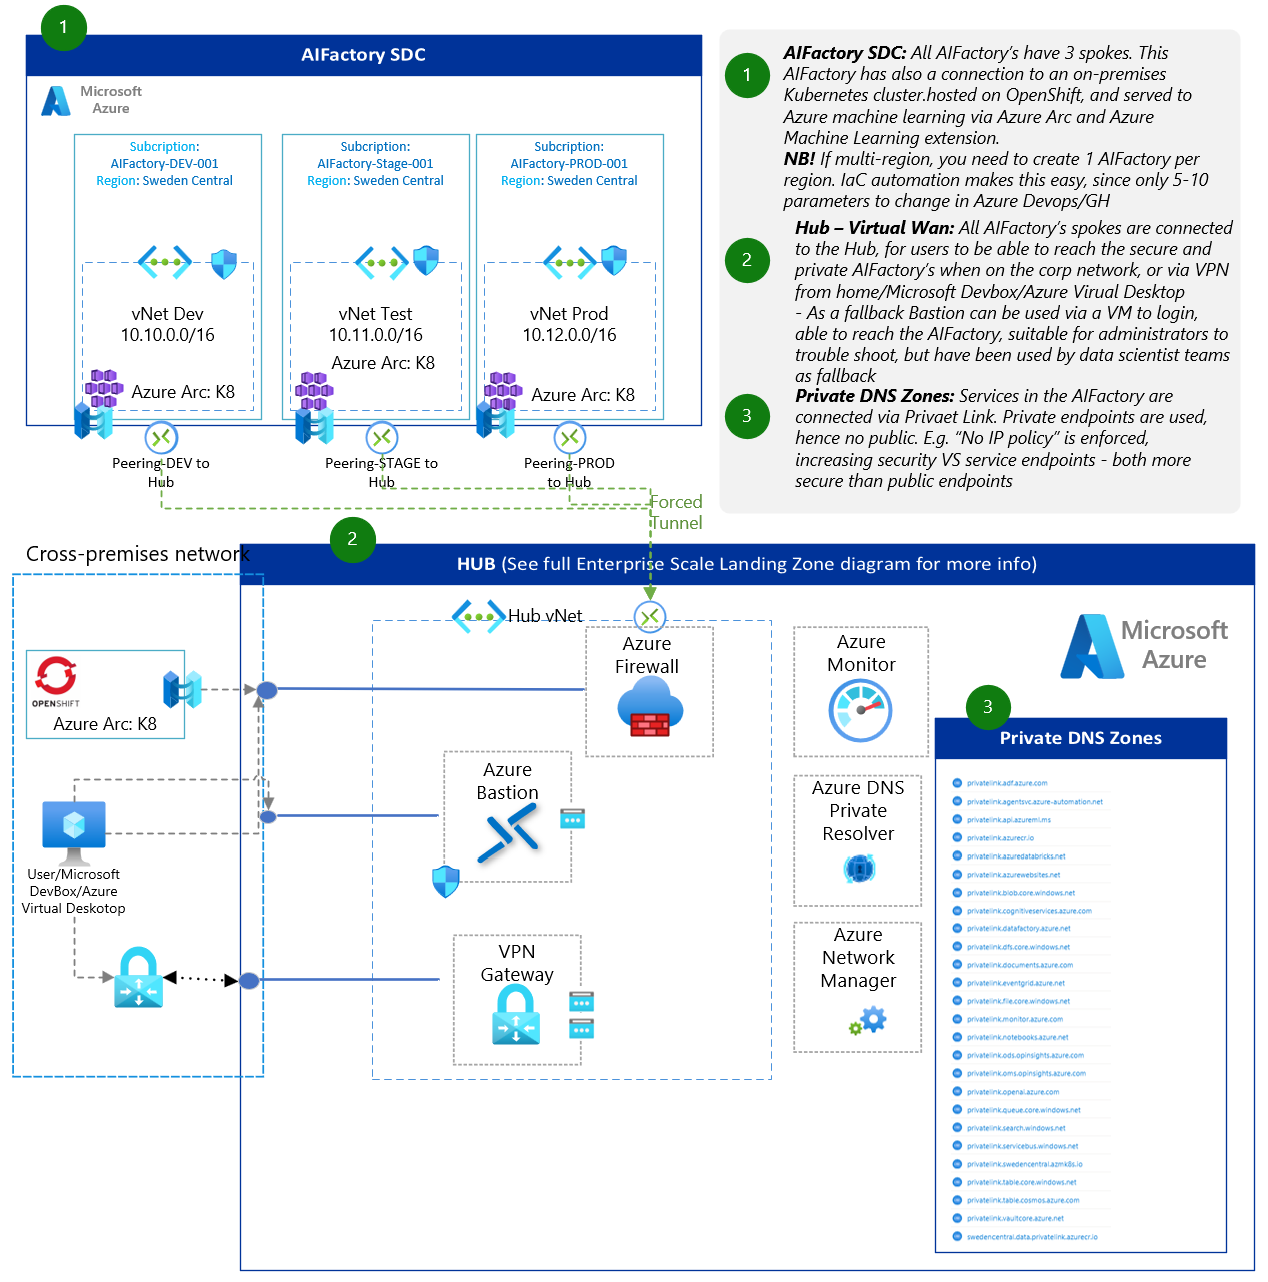
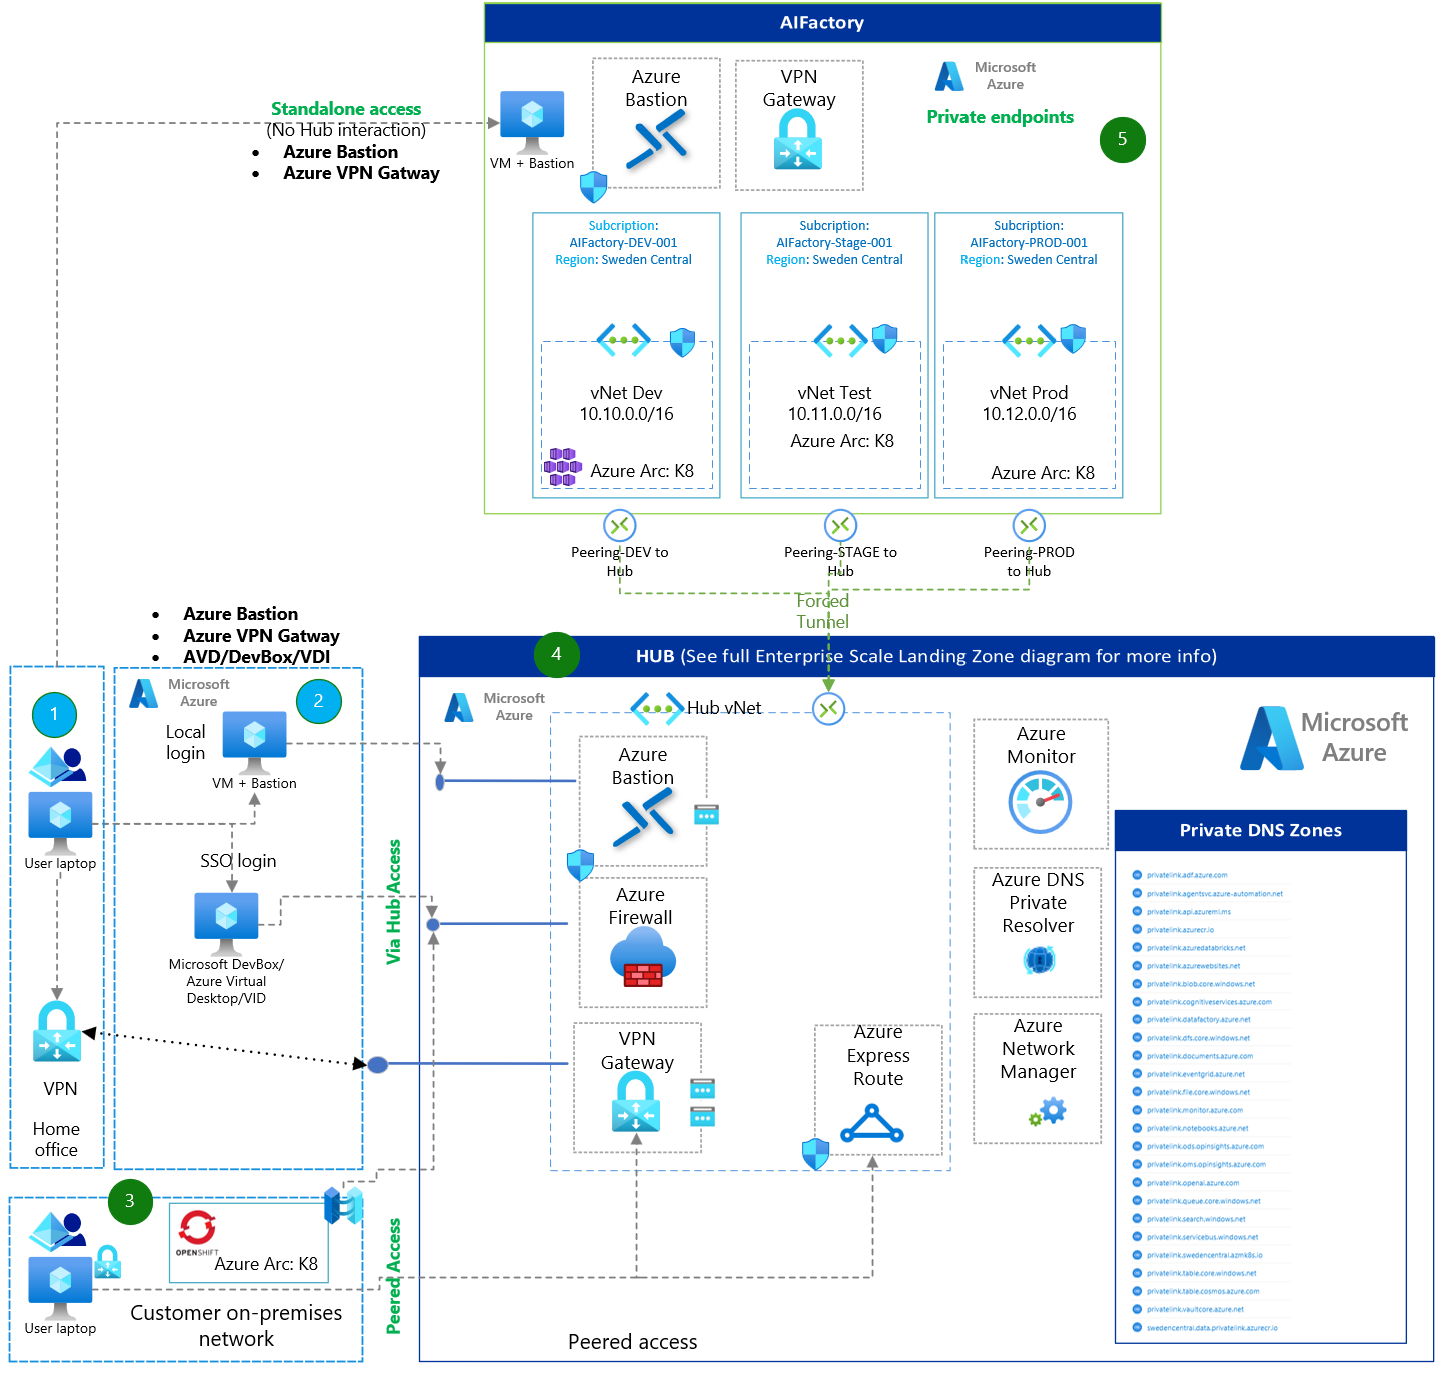
docs

Changed region(s): [[0.0, 0.0, 1.0, 0.9984]]

diff --git a/documentation/v2/10-19/12-prerequisites-setup.md b/documentation/v2/10-19/12-prerequisites-setup.md
@@ -24,19 +24,6 @@
     - [Read more](./14-networking-privateDNS.md) about AIFactory Enterprise Scale Landing Zones
 - B) Enable resource providers: Enable the resource providers as [specified here](./12-resourceproviders.md)
     - [Tip: You can use the Powershell script to automate this](../../../environment_setup/aifactory/bicep/esml-util/26-enable-resource-providers.ps1)
-- C) `ESGenAI and AzureOpenAI`: For each subscription you need to have an approved application via a registration form, that you sign off on that you will use Azure OpenAI responsibly
-    - **TODO:** 
-        - [Application form - direct link](https://customervoice.microsoft.com/Pages/ResponsePage.aspx?id=v4j5cvGGr0GRqy180BHbR7en2Ais5pxKtso_Pz4b1_xUNTZBNzRKNlVQSFhZMU9aV09EVzYxWFdORCQlQCN0PWcu)
-            -**NB!** To get this regiform approved can take ~2 weeks. Do this beforehand for all subscriptions.
-        - [Info about AzureOpenAI limited access](https://learn.microsoft.com/en-us/legal/cognitive-services/openai/limited-access)
-            - Azure OpenAI requires registration and is currently only available to approved enterprise customers and partners.
-    - **Planned scaling of AIFactory:** If you need to scale the AIFactory beyond the 3 subscriptions (Dev-001, Test-001, Prod-001) technical quota roof, also do this beforehand: 
-        - Example: If you want to have twice compute quota, create 6 subscriptions: Dev-001, Dev-002, Test-001, Test-002,Prod-001, Prod-002, and apply via form for all six.
-
-### Step C - More info) - ESGenAI project: Azure OpenAI apply for each Azure subscriptions (Responsible AI purpose)
-NB! If you only want to use the AIFActory for ESML projects, this is not needed. But if you want to use it for ESGenAI projects, meaning using Azure OpenAI for generative AI purpose, this is mandatory. Otherwise the Azure OpenAI services cannot be provisioned and used. 
-- For each subscription: Dev, Test, Prod, you need to apply via a form, that you will use Azure OpenAI responsibly, otherwise the Azure OpenAI services cannot be provisioned and used in that Subscripion. 
-- [Info about AzureOpenAI limited access](https://learn.microsoft.com/en-us/legal/cognitive-services/openai/limited-access)
 
 ## Step 3) Create an Azure keyvault for the admin of Microsoft Entra ID: The so called `seeding keyvault` (IaC purpose), and created Service principals
 - **Purpose:** For the admin (usually Central IT), who has access to Microsoft Entra ID to created service principals, to store information, to be consumed by AIFactory IaC pipeline.
@@ -47,9 +34,15 @@ NB! If you only want to use the AIFActory for ESML projects, this is not needed.
 ## Step 4) Networking: Allocate vNet ranges in your IP-plan: 3 vNets with /16 CIDR size (at least /20)
 - **Purpose:** To be able to peer the AIFactory later. 
 - **Role needed:** Network team within Central IT / Cloud Team
-- **Mandatory:** No. We an setup an AIFactory standalone. But it cannot be peered later on. We need to use Bastion & VM to access it.
+- **Mandatory:** No. We can setup an AIFactory standalone mode. There is still access modes you can use: 1) Bastion & VM  2) Azure VPN Gatway 3) IP-whitelisting (service endpoints). 
 - **Mandatory with /16 size:** No. 16 is optimal, but a size /18 will also work (10 0000 IP adresses or more), but not recommended for productional use (not even for DEV environment)
 - **TODO**: Alloate at 1 or 3 vNet ranges, of size /16
+
+> [!NOTE]
+> **AI Factory Standalone mode** has been used, when an organization cannot use private endpoints, or cannot peer anything to the HUB that has Private DNS Zones.
+> But, the recommendation is to peer it to the HUB, to have 4 access modes instead of 3, where the 4th is seamless and most cost effective.
+> [Read more about networking here](14-networking-privateDNS.md)
+
 
 ## Step 5) Create 3 service principals, and store info(appid, ObjectId, Secret) in the seeding keyvault [(see step 3)](#step-3-create-an-azure-keyvault-for-the-admin-of-microsoft-entra-id-the-so-called-seeding-keyvault-iac-purpose-and-created-service-principals)
 - **Purpose:** To be used to setup the AIFactory. The information of the service principals: ObjectID, ApplicationID, Secret needs to be stored in the seeding keyvault
@@ -101,11 +94,7 @@ NB! If you only want to use the AIFActory for ESML projects, this is not needed.
 - **Mandatory:** Yes
 - **TODO**: [Azure Devops: Create service connection + Import IaC pipelines + Set service connection to pipeline steps](./12-prereq-ado-create-servicecon-import-ado-pipelines.md)
 
-## Step 8) Register Resource providers on Subscriptions
-
-[How-to - run script to enable resource providers ](./12-resourceproviders.md)
-
-## Step 9) If you want to have Private DNS zones centrally in HUB (recommended) = centralDnsZoneByPolicyInHub=true
+## Step 8) If you want to have Private DNS zones centrally in HUB (recommended) = centralDnsZoneByPolicyInHub=true
 1) Create the Private DNS Zones in the HUB as specified: 
     - [How-to - networking](./14-networking-privateDNS.md) 
 2) Apply the policy to add A-records for all PaaS services that creates a private endpoint to have an A-record added to the central Private DNS zones

diff --git a/documentation/v2/10-19/14-networking-privateDNS.md b/documentation/v2/10-19/14-networking-privateDNS.md
@@ -13,7 +13,19 @@ You can choose to have Private DNS Zones Centrally in HUB (recommended) or in th
 - Option B (Recommended for productional use): Create a policy to create the private DNS zones in your HUB, and set the AIFactory config flag `centralDnsZoneByPolicyInHub` to `true`
     - The flag `centralDnsZoneByPolicyInHub` can be seen in [this AIFactory config file:e](../../../environment_setup/aifactory/parameters/10-esml-globals-4-13_21_22.json)
 
-## AIFactory Hub-Spoke - Light & Simplified view
+## AIFactory - 4 Access modes (Hub-connected VS Standalone)
+
+The AI Factory has 4 access modes. Only 1-3 is enables when the AI Factory is setup in standalone mode.
+Stanalone mode, meaning the AIFactory has its own "hub" with own private DNS zones, e.g. it is not peered to your central hub.
+
+1. **Azure VPN** (either to a Windows 11 DevBox or from client computer)
+2. **Bastion and private VM**with private IP-adress (client computer IP needs to be whitelisted for Bastion subnet)
+3. **Service endpoints & IP-address whitelisting** whitelist client IP's (service endpoints) to access UI such as AI Foundry UI, Azure Machine Learning UI
+4. **Peering** with central hub (client has direct line of sight if on corp network, and can use regular VPN from home)
+
+> [!NOTE]
+> **AI Factory Standalone mode** has been used, when an organization cannot use private endpoints, or cannot peer anything to the HUB that has Private DNS Zones.
+> But, the recommendation is to peer it to the HUB, to have 4 access modes instead of 3, where the 4th is seamless and most cost effective.
 
 ![](./images/14-eslz-networking-light.png)
 
